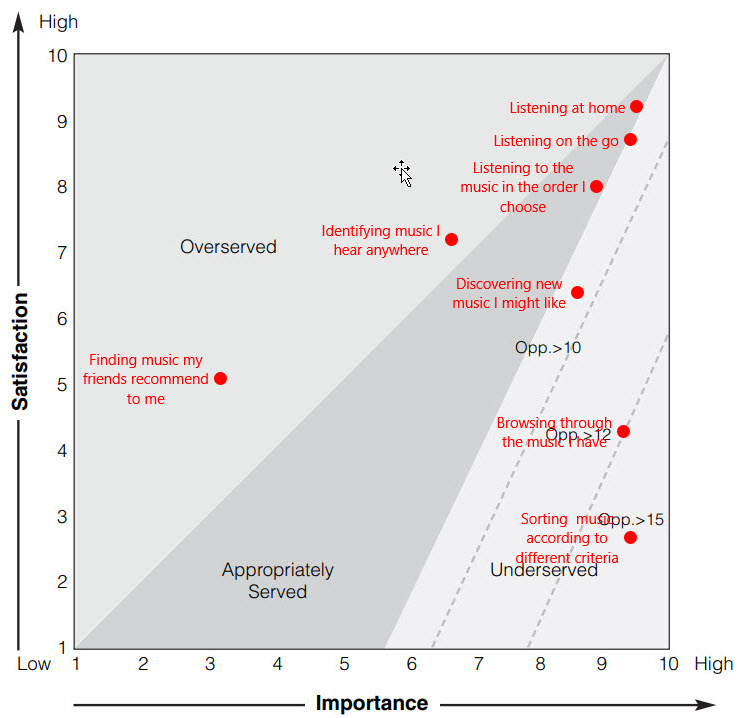
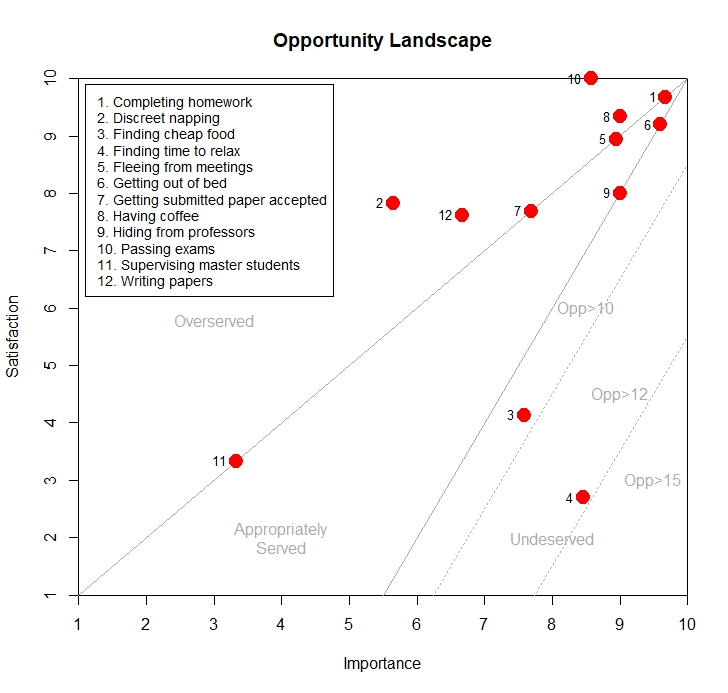
Changed example to reflect sample data in R repo.

diff --git a/_posts/2018-11-27-Opportunity-Score.md b/_posts/2018-11-27-Opportunity-Score.md
@@ -40,24 +40,27 @@ The main metric used in the ODI framework is the Opportunity Score. This is the 
 
 Once a job-to-be-done has been understood, it should be broken down the into smaller job steps, and for each step, a series of _outcomes_ (as expected or desired by customers) should be enunciated. For instance, a job-to-be-done could be:
 
->  Listening to music.
+>  Surviving grad school.
 
 And the steps and outcomes of this job-to-be-done and their outcomes could be:
 
 
 | __Job step__                    | __Outcomes__                                        |
 |---------------------------------|-----------------------------------------------------|
-| Finding relevant music          | Discovering new music I might like                  |
-|                                 | Finding music my friends recommend to me            |
-|                                 | Identifying music I hear anywhere                   |
+| Academic duties                 | Writing papers                                      | 
+|                                 | Getting submitted paper accepted                    |
+|                                 | Completing homework                                 |
+|                                 | Passing exams                                       |
+|                                 | Supervising master students                         |
 |---------------------------------|-----------------------------------------------------|
-| Organizing my music             | Browsing through the music I have                   |
-|                                 | Listening to the music in the order I choose        |
-|                                 | Sorting  music according to different criteria      |       
+| Daily activities                | Getting out of bed                                  |
+|                                 | Having coffee                                       |
+|                                 | Discreet napping                                    |
+|                                 | Finding cheap food                                  |
 |---------------------------------|-----------------------------------------------------|
-| Listening in different places   | Listening at home                                   |
-|                                 | Listening on the go                                 |
-
+| Spare time                      | Finding time to relax                               |
+|                                 | Fleeing from meetings                               |
+|                                 | Hiding from professors                              |
 
 ### Collecting the data
 To obtain the Opportunity Score for each outcome, you first need to collect data from your customers about the desired outcomes. You should ask customers two questions:
@@ -80,20 +83,19 @@ This is pretty easy:
 
 I made up some answer values for the "listening to music" example:
 
-| __Outcomes__                                        | __Importance (%==4 or 5)__ | __Satisfaction (%==4 or 5)__ | __OpScore__ |
-|-----------------------------------------------------|--------------------------|-----------------------------|-------------|
-| Discovering new music I might like                  | 8.6 | 6.4 | 10.8 |
-| Finding music my friends recommend to me            | 3.2 | 5.1 | 3.2 |
-| Identifying music I hear anywhere                   | 6.7 | 7.2 | 6.7 |
-|-----------------------------------------------------|--------------------------|-----------------------------|-------------|
-| Browsing through the music I have                   | 9.3 | 4.3 | 14.3 |
-| Listening to the music in the order I choose        | 8.9 | 8.0 | 9.8 |
-| Sorting  music according to different criteria      | 9.4 | 2.7 | 16.1 |
-|-----------------------------------------------------|--------------------------|-----------------------------|-------------|
-| Listening at home                                   | 9.5 | 9.2 | 9.8 |
-| Listening on the go                                 | 9.4 | 8.7 | 10.1 |
-
-
+| __Outcomes__ | __Importance (%==4 or 5)__ | __Satisfaction (%==4 or 5)__ | __OpScore__ |
+| Writing papers | 6.7 | 7.6 | 12.4 |
+| Getting submitted paper accepted | 7.7 | 7.7 | 13.5 |
+| Completing homework | 9.7 | 9.7 | 15.4 |
+| Passing exams | 8.6 | 10.0 | 14.3 |
+| Supervising master students | 3.3 | 3.3 | 9.1 |
+| Getting out of bed | 9.6 | 9.2 | 15.4 |
+| Having coffee | 9.0 | 9.3 | 14.8 |
+| Discreet napping | 5.7 | 7.8 | 11.4 |
+| Finding cheap food | 7.6 | 4.1 | 13.4 |
+| Finding time to relax | 8.5 | 2.7 | 14.2 |
+| Fleeing from meetings | 8.9 | 8.9 | 14.7 |
+| Hiding from professors | 9.0 | 8.0 | 14.8 |
 
 _NOTE: Ulwick normalizes the percentages to 10 instead of 100. I'm not sure why, but this sometimes leads to confusion as the first impulse is to normalize the 1-5 question scale to 10 (by multipliying by 2)._
 
